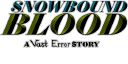
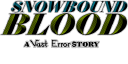
all sprites on main menu

diff --git a/src/mainmenu.c b/src/mainmenu.c
@@ -11,6 +11,8 @@
 NE_Sprite *mmBG;
 NE_Sprite *mmTitle;
 NE_Sprite *mmObject[30];
+NE_Material *mmObjMtl[30];
+NE_Palette *mmObjPal[30];
 
 void setupMainMenu(void) {
     strcpy(activeScreen, "mainmenu");
@@ -19,19 +21,11 @@ void setupMainMenu(void) {
     
     NE_Material *mmTitleMtl = NE_MaterialCreate();
     NE_Palette *mmTitlePal = NE_PaletteCreate();
-    
-    NE_Material *mm0Mtl = NE_MaterialCreate();
-    NE_Palette *mm0Pal = NE_PaletteCreate();
 
-    NE_Material *mm1Mtl = NE_MaterialCreate();
-    NE_Palette *mm1Pal = NE_PaletteCreate();
-    
-    NE_Material *mm2Mtl = NE_MaterialCreate();
-    NE_Palette *mm2Pal = NE_PaletteCreate();
-
-    NE_Material *mm3Mtl = NE_MaterialCreate();
-    NE_Palette *mm3Pal = NE_PaletteCreate();
-
+    for (int i = 0; i < 30; i++) {
+        mmObjMtl[i] = NE_MaterialCreate();
+	mmObjPal[i] = NE_PaletteCreate();
+    }
     
     NE_MaterialTexLoadGRF(mmBGMtl, mmBGPal, NE_TEXGEN_TEXCOORD, "backgrounds/mainmenu/layers/table_png.grf");
     mmBG = NE_SpriteCreate();
@@ -42,42 +36,231 @@ void setupMainMenu(void) {
     NE_MaterialTexLoadGRF(mmTitleMtl, mmTitlePal, NE_TEXGEN_TEXCOORD, "gui/title_idle_png.grf");
     mmTitle = NE_SpriteCreate();
     NE_SpriteSetMaterial(mmTitle, mmTitleMtl);
-    NE_SpriteSetPos(mmTitle, 16, 24);
+    NE_SpriteSetPos(mmTitle, 16, 18);
     NE_SpriteSetPriority(mmTitle, 2);
 
-    NE_MaterialTexLoadGRF(mm0Mtl, mm0Pal, NE_TEXGEN_TEXCOORD, "backgrounds/mainmenu/layers/v1_hamifi_png.grf");
+    NE_MaterialTexLoadGRF(mmObjMtl[0], mmObjPal[0], NE_TEXGEN_TEXCOORD, "backgrounds/mainmenu/layers/v1_hamifi_png.grf");
     mmObject[0] = NE_SpriteCreate();
-    NE_SpriteSetMaterial(mmObject[0], mm0Mtl);
-    NE_SpriteSetPos(mmObject[0], 160, 11);
+    NE_SpriteSetMaterial(mmObject[0], mmObjMtl[0]);
+    NE_SpriteSetPos(mmObject[0], 161, 11);
     NE_SpriteSetPriority(mmObject[0], 49);
 
-    NE_MaterialTexLoadGRF(mm1Mtl, mm1Pal, NE_TEXGEN_TEXCOORD, "backgrounds/mainmenu/layers/v1_sestro_png.grf");
+    NE_MaterialTexLoadGRF(mmObjMtl[1], mmObjPal[1], NE_TEXGEN_TEXCOORD, "backgrounds/mainmenu/layers/v1_sestro_1_png.grf");
     mmObject[1] = NE_SpriteCreate();
-    NE_SpriteSetMaterial(mmObject[1], mm1Mtl);
-    NE_SpriteSetPos(mmObject[1], 0, 0);
+    NE_SpriteSetMaterial(mmObject[1], mmObjMtl[1]);
+    NE_SpriteSetPos(mmObject[1], 20, 5);
     NE_SpriteSetPriority(mmObject[1], 48);
 
-    NE_MaterialTexLoadGRF(mm2Mtl, mm2Pal, NE_TEXGEN_TEXCOORD, "backgrounds/mainmenu/layers/v2_rypite_png.grf");
+    NE_MaterialTexLoadGRF(mmObjMtl[2], mmObjPal[2], NE_TEXGEN_TEXCOORD, "backgrounds/mainmenu/layers/v1_sestro_2_png.grf");
     mmObject[2] = NE_SpriteCreate();
-    NE_SpriteSetMaterial(mmObject[2], mm2Mtl);
-    NE_SpriteSetPos(mmObject[2], 36, 0);
-    NE_SpriteSetPriority(mmObject[2], 47);
+    NE_SpriteSetMaterial(mmObject[2], mmObjMtl[2]);
+    NE_SpriteSetPos(mmObject[2], 166, 177);
+    NE_SpriteSetPriority(mmObject[2], 48);
 
-    NE_MaterialTexLoadGRF(mm3Mtl, mm3Pal, NE_TEXGEN_TEXCOORD, "backgrounds/mainmenu/layers/v2_sirage_png.grf");
+    NE_MaterialTexLoadGRF(mmObjMtl[3], mmObjPal[3], NE_TEXGEN_TEXCOORD, "backgrounds/mainmenu/layers/v2_rypite_png.grf");
     mmObject[3] = NE_SpriteCreate();
-    NE_SpriteSetMaterial(mmObject[3], mm3Mtl);
-    NE_SpriteSetPos(mmObject[3], 20, 50);
-    NE_SpriteSetPriority(mmObject[3], 46);
+    NE_SpriteSetMaterial(mmObject[3], mmObjMtl[3]);
+    NE_SpriteSetPos(mmObject[3], 36, 0);
+    NE_SpriteSetPriority(mmObject[3], 47);
+
+    NE_MaterialTexLoadGRF(mmObjMtl[4], mmObjPal[4], NE_TEXGEN_TEXCOORD, "backgrounds/mainmenu/layers/v2_sirage_png.grf");
+    mmObject[4] = NE_SpriteCreate();
+    NE_SpriteSetMaterial(mmObject[4], mmObjMtl[4]);
+    NE_SpriteSetPos(mmObject[4], 20, 60);
+    NE_SpriteSetPriority(mmObject[4], 46);
+
+    NE_MaterialTexLoadGRF(mmObjMtl[5], mmObjPal[5], NE_TEXGEN_TEXCOORD, "backgrounds/mainmenu/layers/v3_bytcon_png.grf");
+    mmObject[5] = NE_SpriteCreate();
+    NE_SpriteSetMaterial(mmObject[5], mmObjMtl[5]);
+    NE_SpriteSetPos(mmObject[5], 121, 25);
+    NE_SpriteSetPriority(mmObject[5], 45);
+
+    NE_MaterialTexLoadGRF(mmObjMtl[6], mmObjPal[6], NE_TEXGEN_TEXCOORD, "backgrounds/mainmenu/layers/v3_husske_png.grf");
+    mmObject[6] = NE_SpriteCreate();
+    NE_SpriteSetMaterial(mmObject[6], mmObjMtl[6]);
+    NE_SpriteSetPos(mmObject[6], 90, 45);
+    NE_SpriteSetPriority(mmObject[6], 44);
+
+    NE_MaterialTexLoadGRF(mmObjMtl[7], mmObjPal[7], NE_TEXGEN_TEXCOORD, "backgrounds/mainmenu/layers/v4_endari_png.grf");
+    mmObject[7] = NE_SpriteCreate();
+    NE_SpriteSetMaterial(mmObject[7], mmObjMtl[7]);
+    NE_SpriteSetPos(mmObject[7], 132, 72);
+    NE_SpriteSetPriority(mmObject[7], 43);
+
+    NE_MaterialTexLoadGRF(mmObjMtl[8], mmObjPal[8], NE_TEXGEN_TEXCOORD, "backgrounds/mainmenu/layers/v4_oricka_png.grf");
+    mmObject[8] = NE_SpriteCreate();
+    NE_SpriteSetMaterial(mmObject[8], mmObjMtl[8]);
+    NE_SpriteSetPos(mmObject[8], 75, 130);
+    NE_SpriteSetPriority(mmObject[8], 42);
+
+    NE_MaterialTexLoadGRF(mmObjMtl[9], mmObjPal[9], NE_TEXGEN_TEXCOORD, "backgrounds/mainmenu/layers/v5_occeus_png.grf");
+    mmObject[9] = NE_SpriteCreate();
+    NE_SpriteSetMaterial(mmObject[9], mmObjMtl[9]);
+    NE_SpriteSetPos(mmObject[9], 0, 15);
+    NE_SpriteSetPriority(mmObject[9], 41);
+
+    NE_MaterialTexLoadGRF(mmObjMtl[10], mmObjPal[10], NE_TEXGEN_TEXCOORD, "backgrounds/mainmenu/layers/v5_mshiri_png.grf");
+    mmObject[10] = NE_SpriteCreate();
+    NE_SpriteSetMaterial(mmObject[10], mmObjMtl[10]);
+    NE_SpriteSetPos(mmObject[10], 70, 71);
+    NE_SpriteSetPriority(mmObject[10], 41);
+
+    NE_MaterialTexLoadGRF(mmObjMtl[11], mmObjPal[11], NE_TEXGEN_TEXCOORD, "backgrounds/mainmenu/layers/v6_raurou_png.grf");
+    mmObject[11] = NE_SpriteCreate();
+    NE_SpriteSetMaterial(mmObject[11], mmObjMtl[11]);
+    NE_SpriteSetPos(mmObject[11], 155, 102);
+    NE_SpriteSetPriority(mmObject[11], 40);
+
+    NE_MaterialTexLoadGRF(mmObjMtl[12], mmObjPal[12], NE_TEXGEN_TEXCOORD, "backgrounds/mainmenu/layers/v6_cadlys_png.grf");
+    mmObject[12] = NE_SpriteCreate();
+    NE_SpriteSetMaterial(mmObject[12], mmObjMtl[12]);
+    NE_SpriteSetPos(mmObject[12], 0, 131);
+    NE_SpriteSetPriority(mmObject[12], 39);
+
+    NE_MaterialTexLoadGRF(mmObjMtl[13], mmObjPal[13], NE_TEXGEN_TEXCOORD, "backgrounds/mainmenu/layers/v7_necron_png.grf");
+    mmObject[13] = NE_SpriteCreate();
+    NE_SpriteSetMaterial(mmObject[13], mmObjMtl[13]);
+    NE_SpriteSetPos(mmObject[13], 142, 96);
+    NE_SpriteSetPriority(mmObject[13], 38);
+
+    NE_MaterialTexLoadGRF(mmObjMtl[14], mmObjPal[14], NE_TEXGEN_TEXCOORD, "backgrounds/mainmenu/layers/v7_gerbat_png.grf");
+    mmObject[14] = NE_SpriteCreate();
+    NE_SpriteSetMaterial(mmObject[14], mmObjMtl[14]);
+    NE_SpriteSetPos(mmObject[14], 0, 137);
+    NE_SpriteSetPriority(mmObject[14], 37);
+    NE_SpriteSetMaterialCanvas(mmObject[14], 0, 0, 64, 46);
+    NE_SpriteSetSize(mmObject[14], 64, 46);
+
+    mmObject[15] = NE_SpriteCreate();
+    NE_SpriteSetMaterial(mmObject[15], mmObjMtl[14]);
+    NE_SpriteSetPos(mmObject[15], 138, 0);
+    NE_SpriteSetPriority(mmObject[15], 37);
+    NE_SpriteSetMaterialCanvas(mmObject[15], 0, 47, 64, 64);
+    NE_SpriteSetSize(mmObject[15], 64, 17);
+
+    NE_MaterialTexLoadGRF(mmObjMtl[15], mmObjPal[15], NE_TEXGEN_TEXCOORD, "backgrounds/mainmenu/layers/v8_valtel_png.grf");
+    mmObject[16] = NE_SpriteCreate();
+    NE_SpriteSetMaterial(mmObject[16], mmObjMtl[15]);
+    NE_SpriteSetPos(mmObject[16], 88, 164);
+    NE_SpriteSetPriority(mmObject[16], 36);
+
+    NE_MaterialTexLoadGRF(mmObjMtl[16], mmObjPal[16], NE_TEXGEN_TEXCOORD, "backgrounds/mainmenu/layers/v8_sabine_png.grf");
+    mmObject[17] = NE_SpriteCreate();
+    NE_SpriteSetMaterial(mmObject[17], mmObjMtl[16]);
+    NE_SpriteSetPos(mmObject[17], 212, 134);
+    NE_SpriteSetPriority(mmObject[17], 35);
+
+    NE_MaterialTexLoadGRF(mmObjMtl[17], mmObjPal[17], NE_TEXGEN_TEXCOORD, "backgrounds/mainmenu/layers/v9_glomer_png.grf");
+    mmObject[18] = NE_SpriteCreate();
+    NE_SpriteSetMaterial(mmObject[18], mmObjMtl[17]);
+    NE_SpriteSetPos(mmObject[18], 120, 160);
+    NE_SpriteSetPriority(mmObject[18], 34);
+
+    NE_MaterialTexLoadGRF(mmObjMtl[18], mmObjPal[18], NE_TEXGEN_TEXCOORD, "backgrounds/mainmenu/layers/v9_grubname_png.grf");
+    mmObject[19] = NE_SpriteCreate();
+    NE_SpriteSetMaterial(mmObject[19], mmObjMtl[18]);
+    NE_SpriteSetPos(mmObject[19], 201, 0);
+    NE_SpriteSetPriority(mmObject[19], 33);
+
+    NE_MaterialTexLoadGRF(mmObjMtl[19], mmObjPal[19], NE_TEXGEN_TEXCOORD, "backgrounds/mainmenu/layers/v9_cinare_png.grf");
+    mmObject[20] = NE_SpriteCreate();
+    NE_SpriteSetMaterial(mmObject[20], mmObjMtl[19]);
+    NE_SpriteSetPos(mmObject[20], 48, 26);
+    NE_SpriteSetPriority(mmObject[20], 32);
+
+    NE_MaterialTexLoadGRF(mmObjMtl[20], mmObjPal[20], NE_TEXGEN_TEXCOORD, "backgrounds/mainmenu/layers/v10_crytum_png.grf");
+    mmObject[21] = NE_SpriteCreate();
+    NE_SpriteSetMaterial(mmObject[21], mmObjMtl[20]);
+    NE_SpriteSetPos(mmObject[21], 82, 0);
+    NE_SpriteSetPriority(mmObject[21], 31);
+
+    NE_MaterialTexLoadGRF(mmObjMtl[21], mmObjPal[21], NE_TEXGEN_TEXCOORD, "backgrounds/mainmenu/layers/v10_hayyan_png.grf");
+    mmObject[22] = NE_SpriteCreate();
+    NE_SpriteSetMaterial(mmObject[22], mmObjMtl[21]);
+    NE_SpriteSetPos(mmObject[22], 23, 54);
+    NE_SpriteSetPriority(mmObject[22], 30);
+    NE_SpriteSetMaterialCanvas(mmObject[22], 0, 0, 40, 32);
+    NE_SpriteSetSize(mmObject[22], 40, 32);
+
+    mmObject[23] = NE_SpriteCreate();
+    NE_SpriteSetMaterial(mmObject[23], mmObjMtl[21]);
+    NE_SpriteSetPos(mmObject[23], 232, 90);
+    NE_SpriteSetPriority(mmObject[23], 29);
+    NE_SpriteSetMaterialCanvas(mmObject[23], 40, 0, 64, 32);
+    NE_SpriteSetSize(mmObject[23], 24, 32);
+
+    NE_MaterialTexLoadGRF(mmObjMtl[22], mmObjPal[22], NE_TEXGEN_TEXCOORD, "backgrounds/mainmenu/layers/v11_yeshin_png.grf");
+    mmObject[24] = NE_SpriteCreate();
+    NE_SpriteSetMaterial(mmObject[24], mmObjMtl[22]);
+    NE_SpriteSetPos(mmObject[24], 140, 140);
+    NE_SpriteSetPriority(mmObject[24], 28);
+
+    NE_MaterialTexLoadGRF(mmObjMtl[23], mmObjPal[23], NE_TEXGEN_TEXCOORD, "backgrounds/mainmenu/layers/v11_aumtzi_png.grf");
+    mmObject[25] = NE_SpriteCreate();
+    NE_SpriteSetMaterial(mmObject[25], mmObjMtl[23]);
+    NE_SpriteSetPos(mmObject[25], 18, 77);
+    NE_SpriteSetPriority(mmObject[25], 27);
+
+    NE_MaterialTexLoadGRF(mmObjMtl[24], mmObjPal[24], NE_TEXGEN_TEXCOORD, "backgrounds/mainmenu/layers/v12_seinru_png.grf");
+    mmObject[26] = NE_SpriteCreate();
+    NE_SpriteSetMaterial(mmObject[26], mmObjMtl[24]);
+    NE_SpriteSetPos(mmObject[26], 192, 40);
+    NE_SpriteSetPriority(mmObject[26], 26);
+
+    NE_MaterialTexLoadGRF(mmObjMtl[25], mmObjPal[25], NE_TEXGEN_TEXCOORD, "backgrounds/mainmenu/layers/v12_edolon_png.grf");
+    mmObject[27] = NE_SpriteCreate();
+    NE_SpriteSetMaterial(mmObject[27], mmObjMtl[25]);
+    NE_SpriteSetPos(mmObject[27], 80, 55);
+    NE_SpriteSetPriority(mmObject[27], 25);
+
+    NE_MaterialTexLoadGRF(mmObjMtl[26], mmObjPal[26], NE_TEXGEN_TEXCOORD, "backgrounds/mainmenu/layers/v12_al_png.grf");
+    mmObject[28] = NE_SpriteCreate();
+    NE_SpriteSetMaterial(mmObject[28], mmObjMtl[26]);
+    NE_SpriteSetPos(mmObject[28], 150, 25);
+    NE_SpriteSetPriority(mmObject[28], 24);
+
+    NE_MaterialTexLoadGRF(mmObjMtl[27], mmObjPal[27], NE_TEXGEN_TEXCOORD, "backgrounds/mainmenu/layers/epilogue_png.grf");
+    mmObject[29] = NE_SpriteCreate();
+    NE_SpriteSetMaterial(mmObject[29], mmObjMtl[27]);
+    NE_SpriteSetPos(mmObject[29], 96, 66);
+    NE_SpriteSetPriority(mmObject[29], 23);
 }
 
 void drawMainMenu(int screen) {
     NE_SpriteDraw(mmBG);
+    // top screen
     if (!screen) {
       NE_SpriteDraw(mmTitle);
-      NE_SpriteDraw(mmObject[0]);
-      NE_SpriteDraw(mmObject[2]);
-    } else {
-      NE_SpriteDraw(mmObject[1]);
-      NE_SpriteDraw(mmObject[3]);
+      NE_SpriteDraw(mmObject[0]); // hamifi
+      NE_SpriteDraw(mmObject[3]); // rypite
+      NE_SpriteDraw(mmObject[5]); // bytcon
+      NE_SpriteDraw(mmObject[9]); // occeus
+      NE_SpriteDraw(mmObject[11]); // raurou
+      NE_SpriteDraw(mmObject[13]); // necron
+      NE_SpriteDraw(mmObject[14]); // gerbat picture
+      NE_SpriteDraw(mmObject[16]); // valtel
+      NE_SpriteDraw(mmObject[18]); // glomer
+      NE_SpriteDraw(mmObject[19]); // grubname
+      NE_SpriteDraw(mmObject[21]); // crytum
+      NE_SpriteDraw(mmObject[23]); // clips
+      NE_SpriteDraw(mmObject[25]); // aumtzi
+      NE_SpriteDraw(mmObject[27]); // edolon
+      NE_SpriteDraw(mmObject[29]); // epilogue
+    } else { // bottom screen
+      NE_SpriteDraw(mmObject[1]); // sestro lego
+      NE_SpriteDraw(mmObject[2]); // sestro notes
+      NE_SpriteDraw(mmObject[4]); // sirage
+      NE_SpriteDraw(mmObject[6]); // husske
+      NE_SpriteDraw(mmObject[7]); // endari
+      NE_SpriteDraw(mmObject[8]); // oricka
+      NE_SpriteDraw(mmObject[10]); // mshiri
+      NE_SpriteDraw(mmObject[12]); // cadlys
+      NE_SpriteDraw(mmObject[15]); // gerbat ball
+      NE_SpriteDraw(mmObject[17]); // sabine
+      NE_SpriteDraw(mmObject[20]); // cinare
+      NE_SpriteDraw(mmObject[22]); // hayyan
+      NE_SpriteDraw(mmObject[24]); // yeshin
+      NE_SpriteDraw(mmObject[26]); // seinru
+      NE_SpriteDraw(mmObject[28]); // al
     }
 }

diff --git a/src/main.c b/src/main.c
@@ -68,7 +68,7 @@ int main(void) {
     NF_UpdateTextLayers();*/
 
     setupMainMenu();
-
+    printf("%d", NE_TextureFreeMem());
     while (1) {
         NE_WaitForVBL(0);
 	//oamUpdate(&oamSub);
